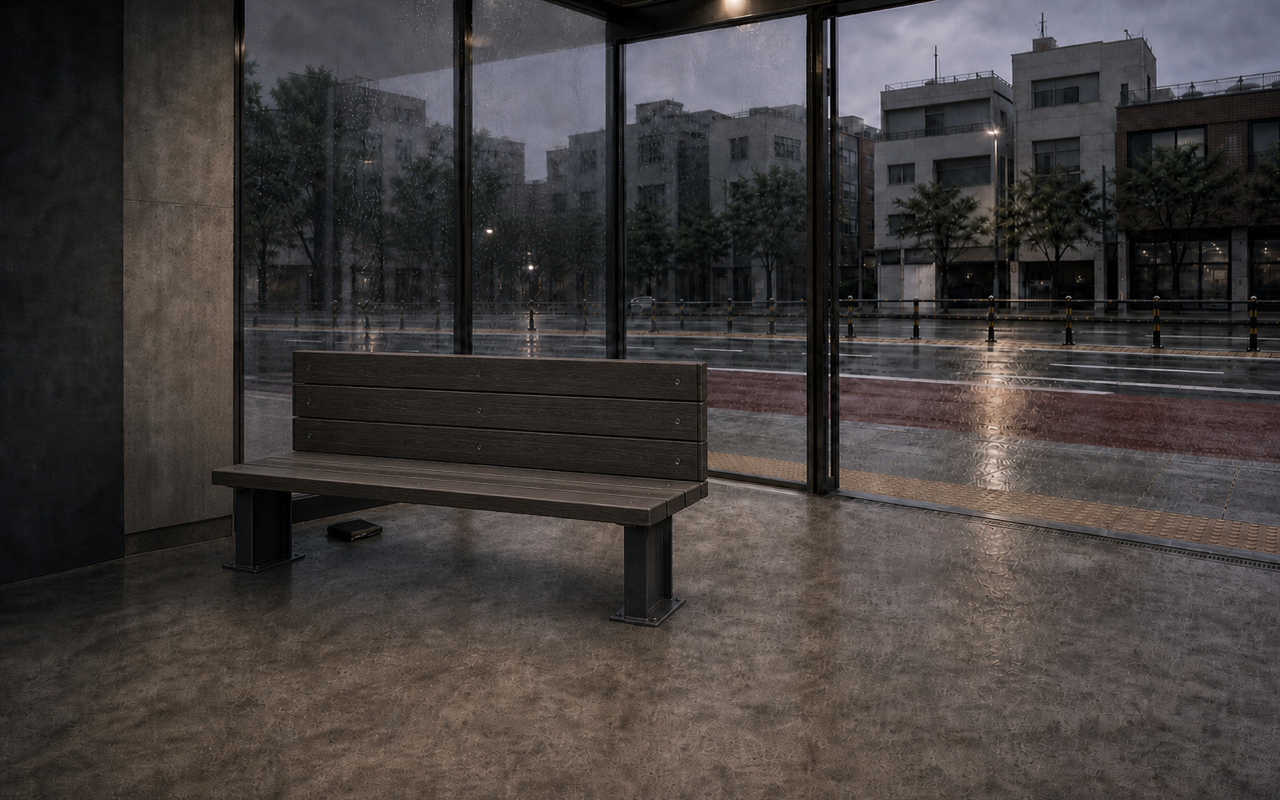
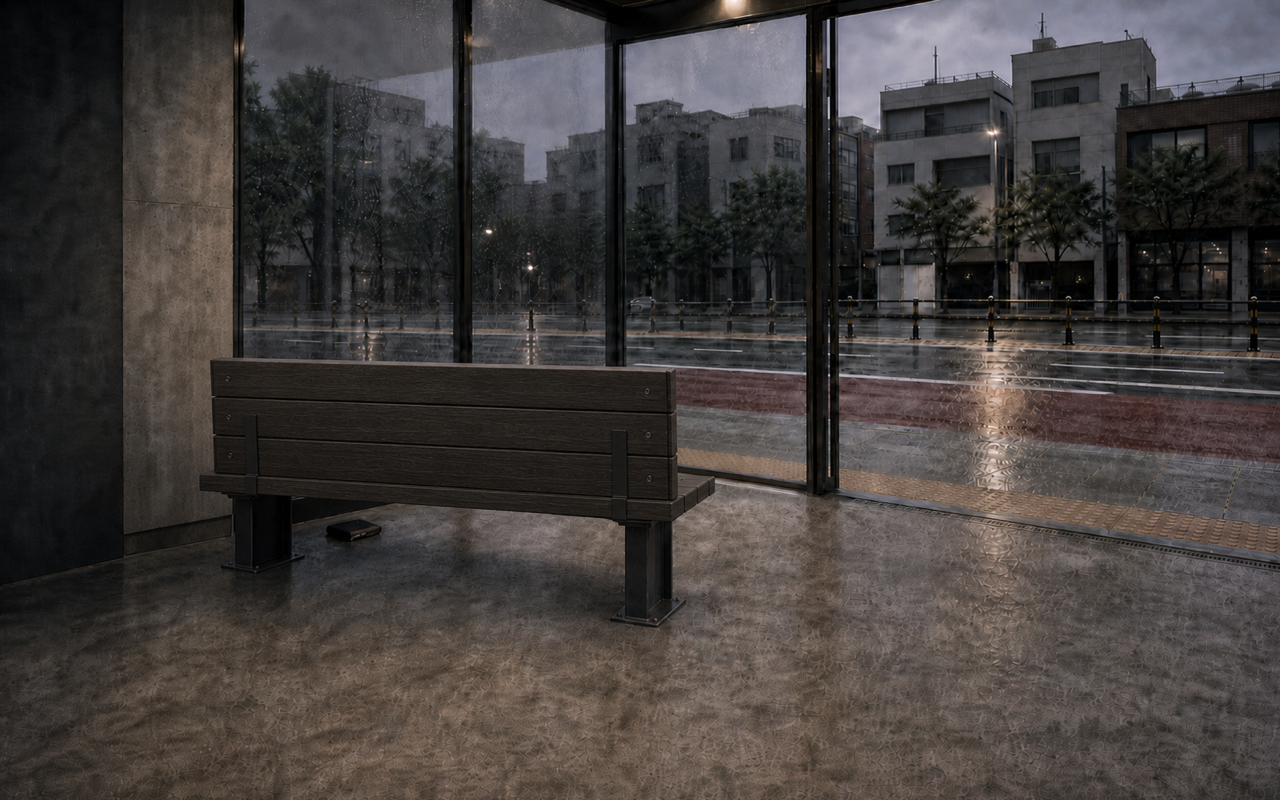
fix(art): face bus stop bench toward roadway

diff --git a/assets/IMAGE_PROMPTS.md b/assets/IMAGE_PROMPTS.md
@@ -303,20 +303,21 @@ Gangnam Ink visual language: desaturated Korean visual novel/manhwa realism, con
 ### seoul_bus_stop_wallet.png
 
 - **최종 경로**: `assets/backgrounds/seoul_bus_stop_wallet.png`
-- **최종 생성 원본**: `/Users/junheelee/.codex/generated_images/019ea951-048b-7770-a3e3-ff333c6843da/exec-7a0d2b57-e115-418c-a0dc-29c4c12b8249.png`
+- **최종 생성 원본**: `/Users/junheelee/.codex/generated_images/019ea951-048b-7770-a3e3-ff333c6843da/exec-8feb6088-144b-4956-a5a5-c324e1c2d5fe.png`
 - **이전 교정 원본**:
   - `exec-59f2a10b-a2d4-4e68-b74b-5c4154ecd8cf.png`: 벤치가 도로 옆을 향해 물리 구조 탈락.
   - `exec-d5ae909c-2686-41c2-94f8-f080defff7d2.png`: 도로 방향은 합격했지만 지갑이 대사창 아래로 내려가 크롭 탈락.
   - `exec-68b702f0-6cad-4e09-b75d-b3e048135dee.png`: 좌석면이 카메라 쪽으로 읽혀 도로 반대 방향처럼 보이는 시각적 모호성으로 탈락.
   - `exec-3de8df09-9f81-4efa-bab5-d78103f13d67.png`: 등받이 뒤/좌석면 구분이 여전히 약해 방향 판독이 모호해 탈락.
-  - `exec-3ddf43b2-a2c0-4499-8341-8f6ebd28e894.png`: 카메라에 등받이 뒷면만 보여 유저가 의도한 벤치 앞면과 정반대로 판독돼 탈락.
+  - `exec-3ddf43b2-a2c0-4499-8341-8f6ebd28e894.png`: 벤치 방향은 맞았지만 이후 교정 과정에서 최종본이 다시 반대로 뒤집혀 대체됨.
+  - `exec-7a0d2b57-e115-418c-a0dc-29c4c12b8249.png`: 카메라에 좌석면이 보여 승객이 도로를 등지고 앉는 구조라 탈락.
 - **최종 프롬프트 체인**:
 
 ```text
-Rotate only the wooden bench 180 degrees around its vertical axis. The corrected bench must show its seat surface and the passenger-facing inner side of the backrest to the camera, exactly opposite the current orientation. Keep the bench parallel to the curb. Make the direction unmistakable: the entire seat plane projects toward the camera and the backrest sits behind it toward the glass and street. Preserve the rainy Seoul roadway, curb, tactile paving, shelter glass and metal structure, architecture, lighting, empty scene, and exactly one small black wallet beneath the front half of the bench. Keep the wallet above the future dialogue UI safe zone. No people, text, logos, signs, extra furniture, duplicate bench, warped furniture, or floating wallet.
+Rotate only the wooden bus-stop bench 180 degrees so the seating side faces the glass wall and the road outside. The camera must see the BACK of the bench backrest, not the seating/front side. A passenger sitting on the bench would look straight through the glass toward approaching buses on the road. Keep the bench in the same footprint and scale, keep the lost black wallet clearly visible on the floor, and preserve the rainy road, curb, tactile paving, shelter, architecture, lighting, and camera angle. No people, bus, text, logos, extra furniture, or architectural changes.
 ```
 
-- **합격 기준**: 카메라에서 좌판 전체와 등받이 안쪽을 동시에 보고 좌판은 화면 앞쪽으로 뻗는다. 뒤쪽 유리 너머 도로·점자블록·연석이 유지되고, 실제 1280x800 도입/선택지 화면에서 지갑 전체가 UI 위에 남는다.
+- **합격 기준**: 카메라에는 등받이 뒷면과 후면 지지대가 보이고 좌판은 도로 쪽에 숨는다. 승객의 시선은 유리 너머 도로를 향하며, 실제 1280x800 도입/선택지 화면에서 지갑 전체가 UI 위에 남는다.
 
 ### winter_bungeoppang_stall.png
 

diff --git a/docs/RELEASE_NOTES.md b/docs/RELEASE_NOTES.md
@@ -2,7 +2,7 @@
 
 ## Unreleased
 - Completed the commitment-scene visual package. Daeun's cafe proposal now keeps its ring hidden until the accepted result paragraph, the delayed branch never leaks that CG, and the wedding-prep spend persists into distinct modest/full ceremony images without filling Minjun's sparse guest side. Jiyeon's route now shows the pre-decision hotel-ballroom class negotiation rather than an unrelated night street or a fabricated bridal outcome. Added a matched proposal portrait, flag-dependent event CGs with legacy-save fallback, explicit acting/eye-line contracts, and an 11-shot Korean/English regression scope.
-- Reversed the wallet-event bus-stop bench to the intended player-facing orientation. The full seat and inner backrest now read immediately in front of the shelter glass, while the rainy road remains visible and the wallet stays above the 1280x800 dialogue and choice docks.
+- Corrected the wallet-event bus-stop bench to face the roadway. The camera now sees the rear of the backrest while a seated passenger would look through the shelter glass toward approaching buses; the wallet remains visible above the 1280x800 dialogue and choice docks.
 - Cleared the event-visual strict debt gate. `A Wallet on the Ground` now uses a coherent Seoul shelter whose readable bench front, shelter glass, visible road, curb, and wallet survive the dialogue/choice crop; `Winter Bungeoppang` shows the actual cart, molds, pastries, broth steam, and an anonymous vendor; and `Seollal` uses a one-off four-person CG in the canonical Changwon home with a correct Korean bow, Father/relatives' gaze, and no reunited mother. Added exact background/CG/ambience assertions, KO/EN choice captures, a CG acting contract, and natural English glosses. Visual contracts now pass strict mode at 54 locked / 0 debt.
 - Split the cafe scenario's two previously conflated men into stable identities. The lean unnamed folder owner now carries a charcoal suit, teal shirt, and blank folio; the stockier Manager Kim carries a taupe jacket, oxblood knit, and phone. Seventeen first-meeting and callback events no longer reuse the office Team Lead or hide the speaker, the folder owner reveals only when he returns in paragraph two, and Korean/English name tags and portrait paths are asserted in StoryMode. Also normalized `Manager Kim`, corrected the reversed folder-peeking translation, and replaced the broker's contradictory "no broker" line with a no-commission direct deal. Visual contracts are now 53 locked / 3 known debt.
 - Gave Hyunsu a coherent visual passage from exam-prep life to departure and employment. Saying goodbye now changes only the choice result to a physically coherent Seoul intercity terminal with traffic ambience, while later callbacks select either his accounting-firm suit/business-card portrait or civil-service jacket/badge portrait from the same identity. StoryMode now supports audited flag-dependent portraits and result-location ambience without restarting BGM; the event visual gate is 41 locked / 7 known debt with 27-shot Korean and English coverage.

diff --git a/docs/WORK_LOG.md b/docs/WORK_LOG.md
@@ -1,5 +1,17 @@
 # Gangnam Dream Work Log
 
+## 2026-07-12 (Codex — bus-stop bench road-facing correction)
+
+### 진단
+- 직전 최종본은 카메라에 좌판과 등받이 안쪽이 보여, 실제로 앉은 승객이 유리 너머 도로를 등지는 반대 구조였다. 정본 인덱스의 "카메라는 벤치 뒤를 본다"와 생성 프롬프트도 서로 충돌했다.
+
+### 구현
+- 정류장·도로·유리·지갑·비 조명은 유지하고 벤치만 180도 돌렸다. 카메라에는 등받이 뒷면과 후면 지지대가 보이며, 좌석은 유리와 도로를 향한다.
+- `assets/IMAGE_PROMPTS.md`의 최종 원본·탈락 사유·합격 기준을 같은 방향으로 교정하고 1280×800 PNG로 정규화했다.
+
+### 검증
+- Godot 재임포트 후 한국어 `--qa=event-visuals`의 `event_visual_ko_06a_bus_stop_wallet` 도입/선택지 컷을 실제 렌더러로 확인했다. 등받이 뒤·도로 방향·지갑이 모두 판독되며 지갑은 두 UI 상태에서 가려지지 않는다.
+
 ## 2026-07-12 (Codex — proposal and wedding visual-state package)
 
 ### 진단
